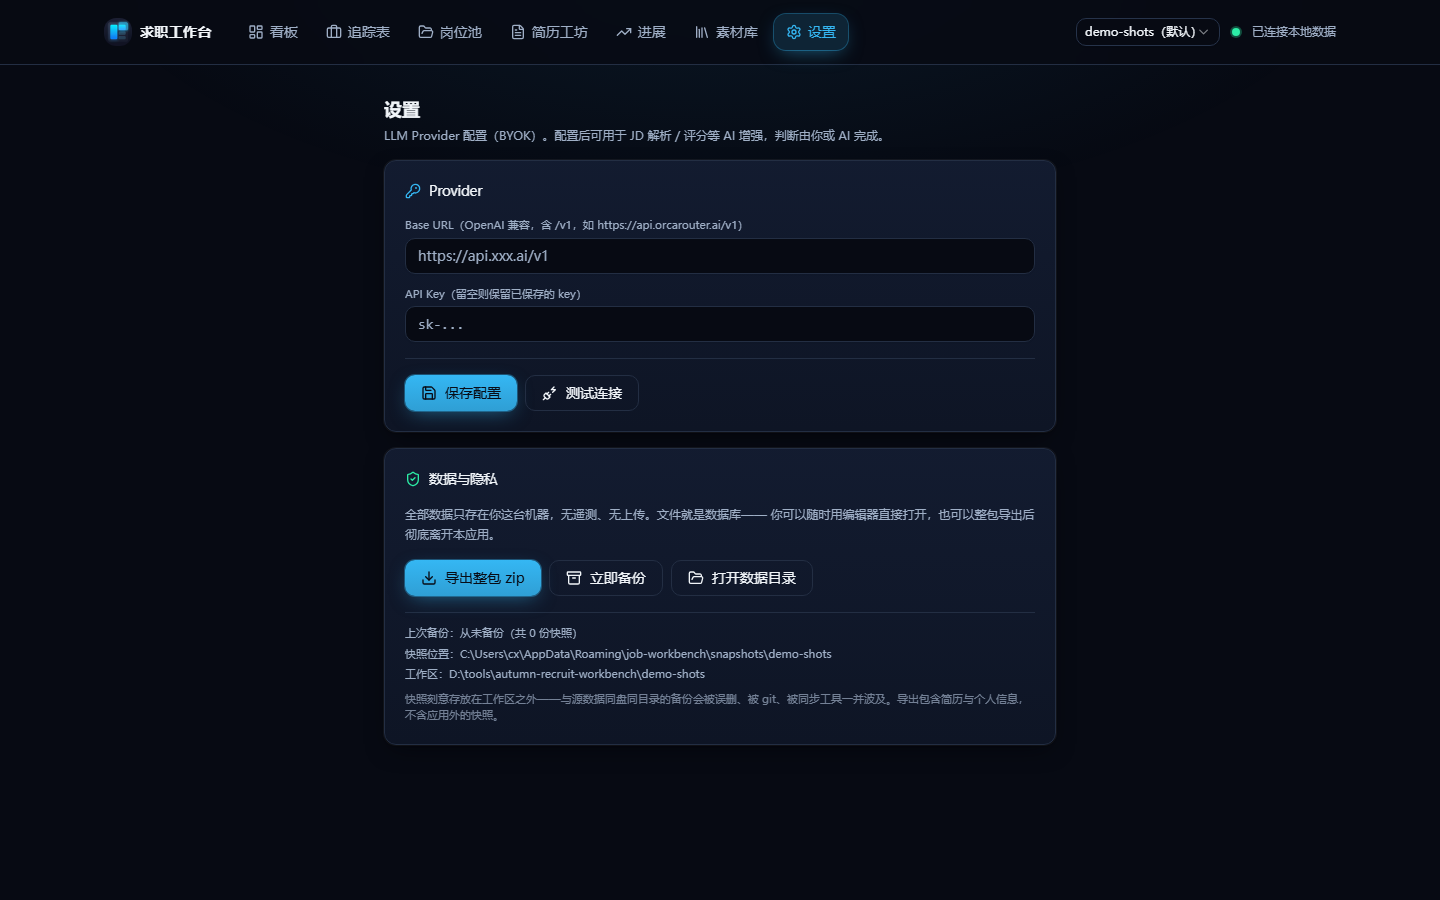
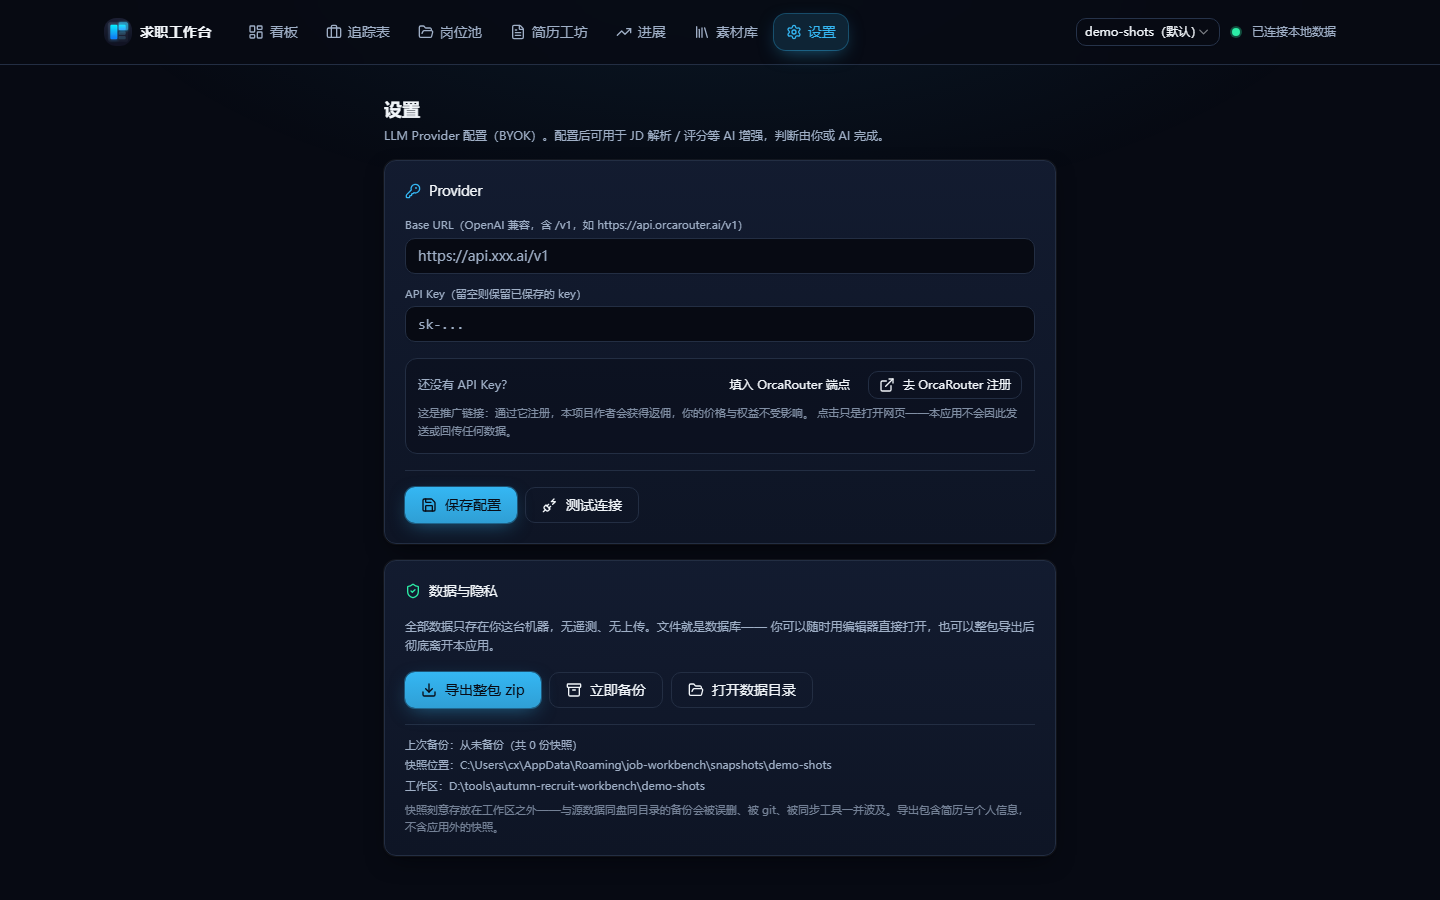
feat(ui): 设置页加 Provider 推广入口与端点预设 (#37)
* feat(ui): 设置页加 Provider 推广入口与端点预设

- 新增 src/lib/partner.ts 作为唯一一处定义：链接、展示名、可一键填入的 Base URL 预设
- 只在「还没存过 key」时出现（cfg && !cfg.hasKey）：配好的人不被打扰，也免掉配置加载前的闪现
- 露出时必须写明这是推广链接（通过它注册给作者返佣、你的价格不受影响、点击只是打开网页不回传数据）——藏在像官网链接的按钮后面就是欺骗
- 加「填入 OrcaRouter 端点」按钮：Base URL 手抄容易错，且错了只在「测试连接」时才暴露
- url 留空则整块不渲染：宁可不显示，也不挂猜出来的链接
- 合作方审核是搜公开仓库配置文件里的 orcarouter（README 不算），本文件的 .ts 形态满足该要求，注释里写明别把它改没了

* docs: 使用手册两版同步说明 Provider 推广入口

- 英文主版与中文同步版各补一条：未存 key 时页面给出注册入口与一键填端点按钮，并注明界面已标注为推广链接
- 刻意不在文档里重复那条推广 URL：同一链接三处维护必然漂移，指针留在源码的 partner.ts

* chore(ui): 重拍设置页截图（新增 Provider 推广入口）

- 只有设置页外观变了，因此只重拍这一张，其余六张不动（同一 UI 版本只拍一轮的纪律）
- 踩到的坑记在这里：截图前必须把 localStorage 的 jobws_selected_workspace 显式置为 demo-shots——浏览器里记住的工作区会盖掉后端的默认值，第一张就拍到了真实工作区（personal）并露出了真实快照路径，已作废重拍
- 后端必须以 demo-shots 为默认工作区启动，否则健康检查与工作区回显不一致会让页面显示「后端未启动」（表现为红叉，实际后端是好的）

---------

Changed region(s): [[0.25, 0.4044, 0.75, 0.9333]]

diff --git a/web/frontend/src/pages/Settings.tsx b/web/frontend/src/pages/Settings.tsx
@@ -2,12 +2,14 @@ import { useEffect, useState } from "react";
 import {
   Archive,
   Download,
+  ExternalLink,
   FolderOpen,
   KeyRound,
   PlugZap,
   Save,
   ShieldCheck,
 } from "lucide-react";
+import { PROVIDER_REFERRAL } from "../lib/partner";
 import {
   api,
   type ProviderConfig,
@@ -35,6 +37,11 @@ export default function Settings() {
   const [pathsError, setPathsError] = useState<string | null>(null);
   const [backing, setBacking] = useState(false);
   const [backupInfo, setBackupInfo] = useState<string | null>(null);
+
+  // 推广入口先摊平成三个非空值：TS 在回调闭包里不做窄化，逐个判空只会更吵
+  const refName = PROVIDER_REFERRAL?.name ?? "";
+  const refUrl = PROVIDER_REFERRAL?.url ?? "";
+  const refPreset = PROVIDER_REFERRAL?.presetBaseUrl ?? "";
 
   const load = () => {
     api
@@ -147,6 +154,45 @@ export default function Settings() {
             />
           </FormField>
         </div>
+
+        {/* 推广入口：放在「正好要填 key」的位置，且必须写明它是推广链接。
+            藏在一个像官网链接的按钮后面就是欺骗，与本项目的诚实红线冲突。 */}
+        {/* 只在「还没存过 key」时出现：已经配好的人不需要这个入口，
+            顺带也免掉 cfg 加载完成前的闪一下（cfg 为 null 时不渲染）。 */}
+        {cfg && !cfg.hasKey && refUrl && (
+          <div className="space-y-1.5 rounded-lg border border-border bg-background/40 p-3">
+            <div className="flex flex-wrap items-center justify-between gap-2">
+              <span className="text-xs text-muted-foreground">
+                还没有 API Key？
+              </span>
+              <div className="flex flex-wrap items-center gap-2">
+                {/* 端点一键填入：合作方的 Base URL 是固定的 OpenAI 兼容地址，
+                    手抄容易错，且错了只会在「测试连接」时才暴露 */}
+                {refPreset && refPreset !== baseUrl && (
+                  <Button
+                    variant="ghost"
+                    className="h-7 px-2.5 text-xs"
+                    onClick={() => {
+                      setBaseUrl(refPreset);
+                      setInfo(`已填入 ${refName} 的 Base URL，填好 Key 后记得保存`);
+                    }}
+                  >
+                    填入 {refName} 端点
+                  </Button>
+                )}
+                <Button asChild variant="outline" className="h-7 px-2.5 text-xs">
+                  <a href={refUrl} target="_blank" rel="noopener noreferrer">
+                    <ExternalLink size={12} /> 去 {refName} 注册
+                  </a>
+                </Button>
+              </div>
+            </div>
+            <p className="text-[11px] leading-relaxed text-muted-foreground/80">
+              这是推广链接：通过它注册，本项目作者会获得返佣，你的价格与权益不受影响。
+              点击只是打开网页——本应用不会因此发送或回传任何数据。
+            </p>
+          </div>
+        )}
 
         <div className="flex flex-wrap items-center gap-2 border-t border-border pt-4">
           <Button onClick={save} disabled={saving}>

diff --git a/web/frontend/src/lib/partner.ts b/web/frontend/src/lib/partner.ts
@@ -1,0 +1,29 @@
+/**
+ * Provider 推广入口与合作方预设 —— 全仓唯一一处定义。
+ *
+ * 只出现在设置页的 Provider 区块里（用户正好要在那里填 API Key）。三条纪律：
+ *
+ * 1. **这是推广（返佣）链接，界面上必须写明。** 藏在一个看起来像普通官网链接的
+ *    按钮后面就是欺骗——本项目的红线是「不编造、不误导」，对链接同样适用。
+ * 2. **它只是一个静态 href。** 不发请求、不带埋点、不回传任何信息，因此与设置页
+ *    「无遥测、无上传」的承诺不冲突；也正因如此，它不需要也不应该有后端支持。
+ * 3. **`url` 留空则该入口不渲染**——宁可不显示，也不要挂一个猜出来的链接。
+ *
+ * 关于合作方的审核：它在**公开仓库的配置文件**（.toml/.json/.yaml/.yml/.js/.ts/
+ * .py/.go/.env）里搜索 `orcarouter`，写在 README 里不算。本文件是 .ts 且含有
+ * `orcarouter`，因此满足；改动它时注意别把这条要求改没了。
+ */
+export interface ProviderReferral {
+  /** 展示名，用于按钮文案 */
+  name: string;
+  /** 推广链接（含返佣标识）。空字符串 = 不显示该入口 */
+  url: string;
+  /** 一键填入设置页的 OpenAI 兼容端点 */
+  presetBaseUrl?: string;
+}
+
+export const PROVIDER_REFERRAL: ProviderReferral | null = {
+  name: "OrcaRouter",
+  url: "https://www.orcarouter.ai/ref/ref_f34ad879f774bce8bc82",
+  presetBaseUrl: "https://api.orcarouter.ai/v1",
+};

diff --git a/docs/usage-guide.md b/docs/usage-guide.md
@@ -190,6 +190,7 @@ The "Settings" page in the nav configures your AI provider (BYOK, bring your own
 - **API Key**: stored locally only; the UI shows just the masked last 4 characters
 - **Test connection**: calls `{base_url}/models` to verify the key and list models
 - **Data and privacy**: export everything as a zip, snapshot backup to the system user directory, open the data directory, no-telemetry statement
+- **No API key yet?**: while no key is stored, the page shows a sign-up entry for a recommended provider, plus a button that fills in that provider's Base URL for you (the preset lives in one place in the source). The entry is labelled on screen as a referral link — signing up through it credits the project author; your pricing is unaffected, and clicking it only opens a web page (no data leaves the app).
 
 > By default the AI judgement in this workbench is done by your AI CLI (CodeBuddy and friends); the provider is an optional BYOK enhancement (used for resume import and AI rewrite).
 

diff --git a/docs/usage-guide.zh-CN.md b/docs/usage-guide.zh-CN.md
@@ -193,6 +193,7 @@ powershell -ExecutionPolicy Bypass -File scripts\build_desktop.ps1
 - **API Key**：只存本地，界面只显示脱敏后的末尾 4 位
 - **测试连接**：调 `{base_url}/models` 验证 key 有效并列出模型
 - **数据与隐私**：整包导出 zip、快照备份到系统用户目录、打开数据目录、无遥测声明
+- **还没有 API Key？**：未存 key 时，页面会给出一个推荐 Provider 的注册入口，以及一个「一键填入该 Provider 端点」的按钮（预设值只在源码里定义一处）。这个入口在界面上明确标注为推广链接——通过它注册会给本项目作者返佣，你的价格与权益不受影响；点击只是打开网页，不会有任何数据从本应用发出。
 
 > 本工作台的 AI 判断默认由 AI CLI（CodeBuddy 等）完成，Provider 是可选的 BYOK 增强入口（简历导入 / AI 改写用）。
 
